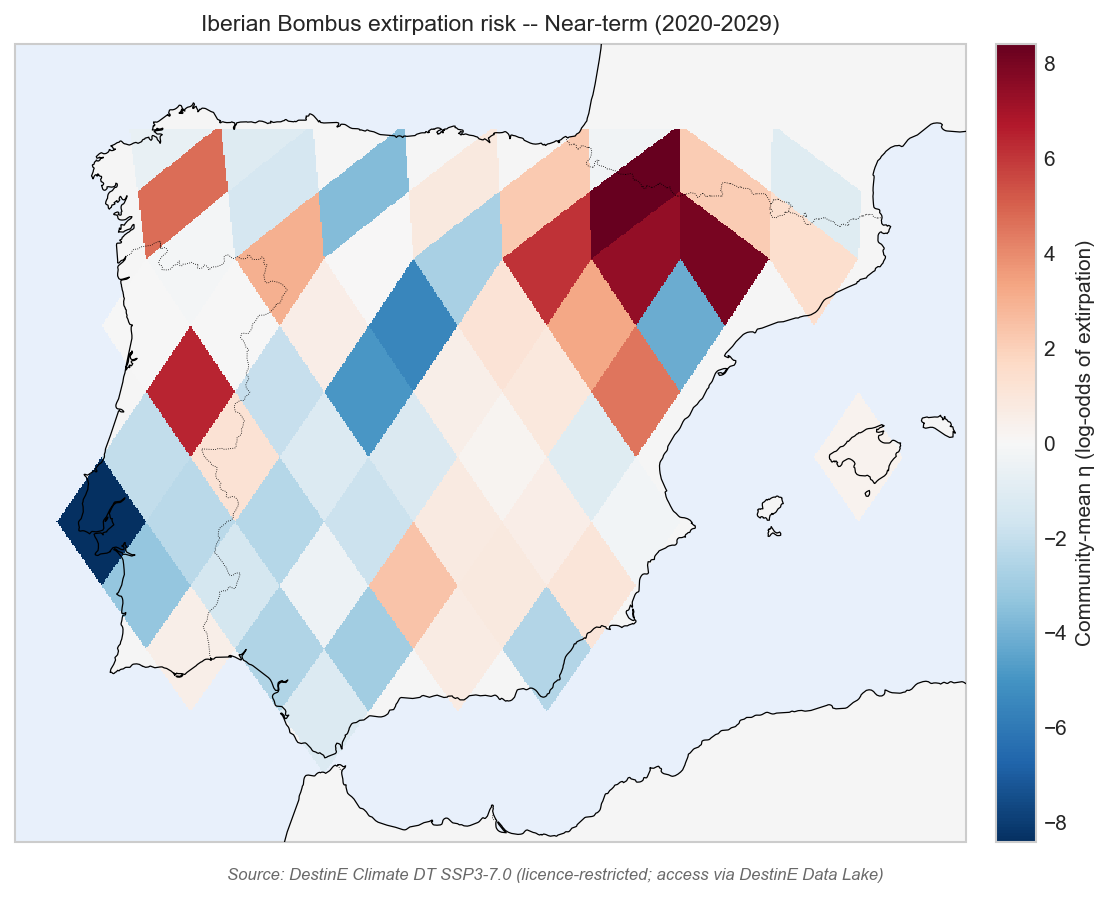
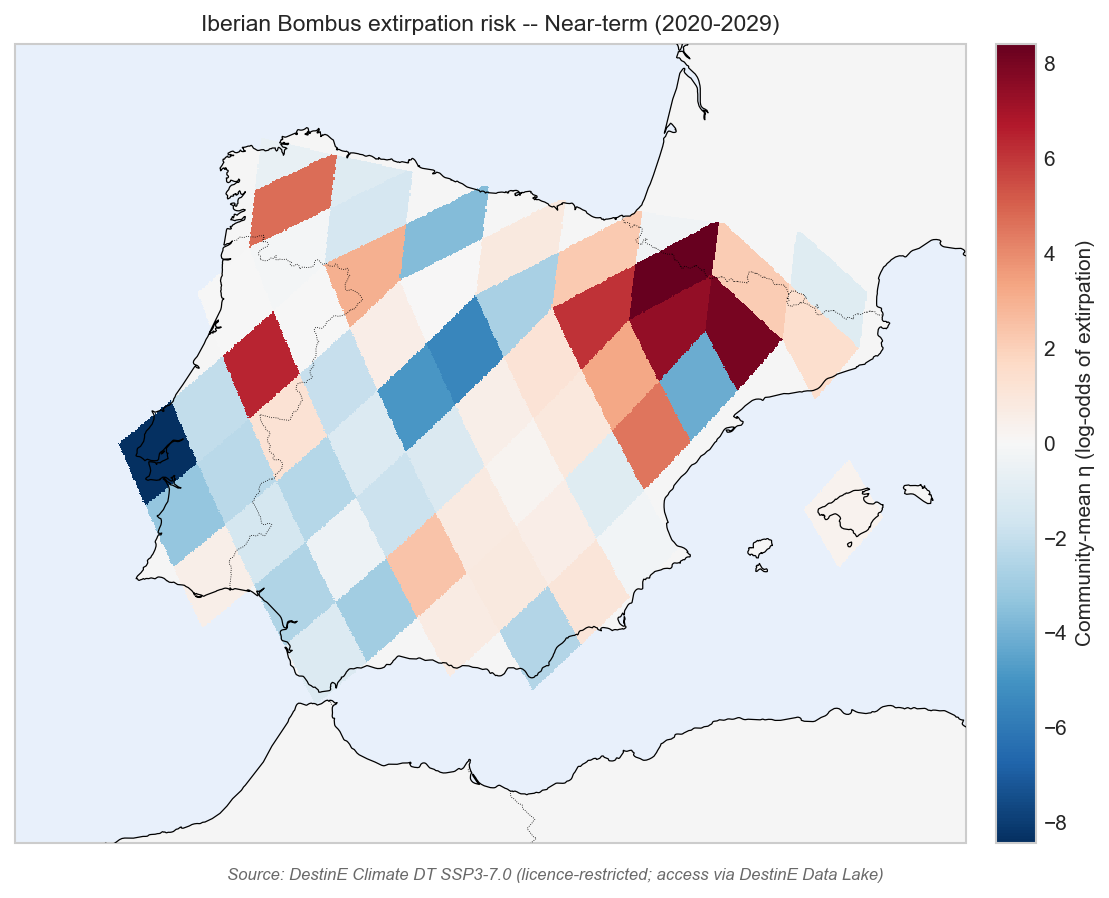
Tier 2 — switch maps to ETRS89/LAEA Europe (EPSG:3035) + flag terrestris/pascuorum negative-η as random-effect
Two changes coupled because both surfaced from inspecting the figures:

(1) Projection. PlateCarree was wrong for Iberia at HEALPix nside=64
    cell scale: not equal-area, distorts the cells visually relative to
    their true on-sphere areas, and not the canonical European
    biodiversity reporting CRS. Switch to ETRS89 / LAEA Europe
    (EPSG:3035) — equal-area, the EEA / Natura 2000 / EUNIS / INSPIRE
    standard for European biodiversity work. ccrs.epsg(3035) in cartopy.
    Faithful to HEALPix's equal-area pixelisation; aligns with how
    every EU biodiversity dataset is mapped.

(2) η decomposition reveals B. terrestris's and B. pascuorum's
    negative projected η is driven by the GLMM species random
    intercept (RE ≈ -2.6 and -0.97 respectively), NOT climate-induced
    benefit. Per-term breakdown for terrestris at 2030-2039:
        Intercept             -0.799
        sc_TEI_bs             +0.293   <- positive climate
        sc_TEI_delta          +0.043   <- positive climate
        sc_PEI_delta          +0.675   <- positive climate
        species_RE            -2.600   <- DOMINATES negative result
        TOTAL                 -2.312
    All climate-driven term contributions are POSITIVE for both species.
    The correct interpretation is "historically robust species, with
    SSP3-7.0 adding moderate climate forcing on top" — NOT "projected
    to benefit from SSP3-7.0". Add this caveat to 05_outcome.md
    Limitations.

Files:
[…]

diff --git a/scripts/decompose_eta_for_species.py b/scripts/decompose_eta_for_species.py
@@ -1,0 +1,196 @@
+"""Decompose the GLMM linear predictor η per species into the 10 fixed-effect
+term contributions, plus the species random effect.
+
+For each species' active cells under the projection horizon, computes:
+
+    eta = beta_0 (Intercept)
+        + beta_1 * sc_sampling
+        + beta_2 * sc_TEI_bs
+        + beta_3 * sc_TEI_delta
+        + beta_4 * sc_TEI_bs * sc_TEI_delta
+        + beta_5 * sc_PEI_bs
+        + beta_6 * sc_PEI_delta
+        + beta_7 * sc_PEI_bs * sc_PEI_delta
+        + beta_8 * sc_TEI_bs * sc_PEI_bs
+        + beta_9 * sc_TEI_delta * sc_PEI_delta
+        + species_random_intercept
+
+Reports the per-cell mean of each term (averaged over the species' cells)
+so we can see which term is driving the per-species η. Useful for
+explaining anomalies like terrestris's negative projected η.
+
+Usage:
+    python scripts/decompose_eta_for_species.py terrestris [--horizon 2030_2039]
+"""
+from __future__ import annotations
+
+import argparse
+import json
+from pathlib import Path
+
+import arviz as az
+import numpy as np
+import pandas as pd
+import xarray as xr
+
+ROOT = Path(__file__).resolve().parent.parent
+HPORT = ROOT / "healpix_port" / "outputs_iberia"
+RESULTS = ROOT / "results"
+
+PARAM_NAMES = [
+    "Intercept",
+    "sc_sampling",
+    "sc_TEI_bs",
+    "sc_TEI_delta",
+    "sc_TEI_bs:sc_TEI_delta",
+    "sc_PEI_bs",
+    "sc_PEI_delta",
+    "sc_PEI_bs:sc_PEI_delta",
+    "sc_TEI_bs:sc_PEI_bs",
+    "sc_TEI_delta:sc_PEI_delta",
+]
+
+
+def main():
+    ap = argparse.ArgumentParser(description=__doc__)
+    ap.add_argument("species", help="Lowercase Bombus epithet, e.g. 'terrestris'")
+    ap.add_argument("--horizon", default="2030_2039",
+                    choices=("2020_2029", "2030_2039"))
+    args = ap.parse_args()
+    sp = args.species
+    horizon = args.horizon
+
+    # Load future TEI/PEI for this horizon
+    fut = xr.open_dataset(HPORT / f"climate_tei_pei_future_{horizon}_healpix.nc")
+    species_arr = fut["species"].values.astype(str)
+    if sp not in species_arr:
+        raise SystemExit(f"Species '{sp}' not in {HPORT}/climate_tei_pei_future_{horizon}_healpix.nc")
+    si = list(species_arr).index(sp)
+
+    # Load standardisation constants from Tier-1 dataGLMM
+    parquet = pd.read_parquet(HPORT / "dataGLMM_extinction.parquet")
+    sampling_zarr = parquet["sampling"].values
+    sampling_mu, sampling_sd = sampling_zarr.mean(), sampling_zarr.std(ddof=1)
+    constants = {
+        col: (parquet[col].mean(), parquet[col].std(ddof=1))
+        for col in ("TEI_bs", "TEI_delta", "PEI_bs", "PEI_delta")
+    }
+
+    def z(x, col):
+        mu, sd = constants[col]
+        return (x - mu) / sd
+
+    # VB posterior means (use these as point estimates for term decomposition;
+    # for full posterior use the bambi NetCDF — kept simple here)
+    post = pd.read_csv(HPORT / "posterior_vb_summary.csv", index_col=0)
+    coef = {p: float(post.loc[p, "mean"]) for p in PARAM_NAMES}
+
+    # Species random effect from bambi posterior
+    idata = az.from_netcdf(RESULTS / "posterior_bambi_healpix.nc")
+    re_ds = idata.posterior.get("1|species", None)
+    if re_ds is None:
+        # bambi sometimes calls it differently
+        for k in idata.posterior.data_vars:
+            if "species" in k.lower():
+                re_ds = idata.posterior[k]
+                break
+    re_mean_per_species = re_ds.mean(dim=("chain", "draw")).values  # (n_species,)
+    re_species_coords = (
+        re_ds.coords.get("1|species_dim") or re_ds.coords.get("species_dim")
+        or list(idata.posterior.coords.values())[-1]
+    ).values.astype(str)
+    if sp in re_species_coords:
+        re_si = list(re_species_coords).index(sp)
+        re_value = float(re_mean_per_species[re_si])
+    else:
+        re_value = 0.0
+        print(f"  [warn] species '{sp}' not in random-effect coord; using RE = 0")
+
+    # Future predictors at this species' active cells
+    tei_bs = fut["tei_bs"].values[si, :]
+    tei_delta = fut["tei_delta"].values[si, :]
+    pei_bs = fut["pei_bs"].values[si, :]
+    pei_delta = fut["pei_delta"].values[si, :]
+    cells = fut["cell"].values
+
+    valid = (np.isfinite(tei_bs) & np.isfinite(tei_delta)
+             & np.isfinite(pei_bs) & np.isfinite(pei_delta))
+    if valid.sum() == 0:
+        raise SystemExit(f"No cells with all-finite predictors for {sp}")
+
+    # Standardise (sampling held at recent-period mean = 0 in z-space)
+    sc_TEI_bs = z(tei_bs[valid], "TEI_bs")
+    sc_TEI_delta = z(tei_delta[valid], "TEI_delta")
+    sc_PEI_bs = z(pei_bs[valid], "PEI_bs")
+    sc_PEI_delta = z(pei_delta[valid], "PEI_delta")
+    sc_sampling = np.zeros_like(sc_TEI_bs)
+
+    # Per-cell term contributions
+    contrib = {
+        "Intercept": np.full_like(sc_TEI_bs, coef["Intercept"]),
+        "sc_sampling": coef["sc_sampling"] * sc_sampling,
+        "sc_TEI_bs": coef["sc_TEI_bs"] * sc_TEI_bs,
+        "sc_TEI_delta": coef["sc_TEI_delta"] * sc_TEI_delta,
+        "sc_TEI_bs:sc_TEI_delta":
+            coef["sc_TEI_bs:sc_TEI_delta"] * sc_TEI_bs * sc_TEI_delta,
+        "sc_PEI_bs": coef["sc_PEI_bs"] * sc_PEI_bs,
+        "sc_PEI_delta": coef["sc_PEI_delta"] * sc_PEI_delta,
+        "sc_PEI_bs:sc_PEI_delta":
+            coef["sc_PEI_bs:sc_PEI_delta"] * sc_PEI_bs * sc_PEI_delta,
+        "sc_TEI_bs:sc_PEI_bs":
+            coef["sc_TEI_bs:sc_PEI_bs"] * sc_TEI_bs * sc_PEI_bs,
+        "sc_TEI_delta:sc_PEI_delta":
+            coef["sc_TEI_delta:sc_PEI_delta"] * sc_TEI_delta * sc_PEI_delta,
+        "species_RE": np.full_like(sc_TEI_bs, re_value),
+    }
+    eta = sum(contrib.values())
+
+    print(f"\n=== B. {sp} — {horizon} — η decomposition ===")
+    print(f"Species cells with finite predictors: {valid.sum()}")
+    print(f"Mean η across cells: {eta.mean():+.3f}\n")
+
+    # Mean term contribution across cells (this is what drives the species' mean η)
+    print(f"{'Term':<28}  {'β (VB mean)':>12}  {'mean cell value':>16}  {'mean contribution':>20}")
+    print("-" * 84)
+    rows = []
+    for term in list(contrib.keys()):
+        if term == "species_RE":
+            beta = float("nan")
+            mean_cell_value = float("nan")
+        elif term == "Intercept":
+            beta = coef["Intercept"]
+            mean_cell_value = 1.0
+        elif ":" in term:
+            beta = coef[term]
+            mean_cell_value = float("nan")  # not applicable to single value
+        else:
+            beta = coef[term]
+            # Re-derive the mean of the standardised predictor for that term
+            arr = {
+                "sc_sampling": sc_sampling,
+                "sc_TEI_bs": sc_TEI_bs,
+                "sc_TEI_delta": sc_TEI_delta,
+                "sc_PEI_bs": sc_PEI_bs,
+                "sc_PEI_delta": sc_PEI_delta,
+            }[term]
+            mean_cell_value = float(arr.mean())
+        mean_contrib = float(contrib[term].mean())
+        rows.append((term, beta, mean_cell_value, mean_contrib))
+        print(f"{term:<28}  {beta:>+12.4f}  "
+              f"{(f'{mean_cell_value:+.3f}' if np.isfinite(mean_cell_value) else 'n/a'):>16}  "
+              f"{mean_contrib:>+20.4f}")
+
+    print("-" * 84)
+    total = sum(r[3] for r in rows)
+    print(f"{'TOTAL η (sum of contributions)':<28}  {'':>12}  {'':>16}  {total:>+20.4f}")
+
+    # Highlight the dominant term(s)
+    rows_sorted = sorted(rows, key=lambda r: -abs(r[3]))
+    print(f"\nTop 3 contributing terms (by |contribution|):")
+    for term, beta, _, contrib_val in rows_sorted[:3]:
+        sign = "POSITIVE → ↑ η" if contrib_val > 0 else "NEGATIVE → ↓ η"
+        print(f"  {term:<28} contributes {contrib_val:+.3f}  ({sign})")
+
+
+if __name__ == "__main__":
+    main()

diff --git a/notebooks/08_projection_figures.py b/notebooks/08_projection_figures.py
@@ -185,7 +185,12 @@ def _plot_rank(ax, records, title, color, order_species=None,
 
 # %%
 def _draw_healpix_map(ax, raster_per_cell, title):
-    """Draw the Iberia raster via `healpix_plot.plot` (EOPF-DGGS canonical).
+    """Draw the Iberia raster via `healpix_plot.plot` (EOPF-DGGS canonical),
+    in **ETRS89 / LAEA Europe (EPSG:3035)** — the canonical European
+    biodiversity reporting CRS (EEA / Natura 2000 / EUNIS / INSPIRE) and
+    an equal-area projection that respects HEALPix's native equal-area
+    pixelisation. PlateCarree would distort cells visually relative to
+    their on-sphere areas — not faithful to the substrate.
 
     Diverging colormap centred on η = 0 (the moderate-risk threshold:
     log-odds 0 ↔ p = 0.5). Red cells = high projected extirpation
@@ -193,8 +198,11 @@ def _draw_healpix_map(ax, raster_per_cell, title):
     p = expit(η) because future predictors lie far outside training
     distribution and expit() saturates uninformatively.
     """
-    proj = ccrs.PlateCarree()
-    ax.set_extent([-10.5, 4.5, 35.0, 44.5], crs=proj)
+    # The caller passes an axis already configured with EPSG:3035
+    # (LAEA Europe). We declare the extent in PlateCarree (lon/lat)
+    # — cartopy does the projection internally.
+    pc = ccrs.PlateCarree()
+    ax.set_extent([-10.5, 4.5, 35.0, 44.5], crs=pc)
     ax.add_feature(cfeature.LAND, facecolor="#f5f5f5", zorder=0)
     ax.add_feature(cfeature.OCEAN, facecolor="#e8f0fb", zorder=0)
 
@@ -281,7 +289,10 @@ print(f"Saved {out}")
 # %%
 
 def _plot_map(horizon: str, raster: np.ndarray) -> Path:
-    proj = ccrs.PlateCarree()
+    # ETRS89 / LAEA Europe (EPSG:3035) — equal-area, canonical EU
+    # biodiversity reporting CRS. Faithful to HEALPix's equal-area
+    # pixelisation.
+    proj = ccrs.epsg(3035)
     fig = plt.figure(figsize=(7.5, 6))
     ax = plt.axes(projection=proj)
     pc = _draw_healpix_map(
@@ -346,7 +357,7 @@ _plot_rank(
 )
 
 if impactful in per_cell:
-    ax_map = fig.add_subplot(gs[0, 1], projection=ccrs.PlateCarree())
+    ax_map = fig.add_subplot(gs[0, 1], projection=ccrs.epsg(3035))
     pc = _draw_healpix_map(
         ax_map, per_cell[impactful],
         f"Risk map -- {HORIZON_TITLES[impactful]}",

diff --git a/nanopubs/drafts/05_outcome.md b/nanopubs/drafts/05_outcome.md
@@ -92,6 +92,7 @@ The Tier-2 projection therefore reports the GLMM linear predictor η (log-odds o
 > - **Daily Tmax/Tmin from 4-times-daily 2t snapshots** — 06_destine_clean approximates daily extremes from the 00/06/12/18 UTC samples rather than from true daily max/min (which DestinE Climate DT does not archive — see notebooks/05_destine_download.py § Why no native max/min).
 > - **`tp` 1-time-per-day approximation in the DestinE retrieve** — flagged in 06_destine_clean as TP_HOURLY_TO_DAILY_FACTOR; defensible at decadal mean, invalid for any sub-monthly statistic.
 > - **Small-N in the most-vulnerable taxa** — top-ranked species (norvegicus, mendax, mucidus, pyrenaeus) are observed in 1–7 Iberian cells in the 1901–1974 baseline period; high η reflects strong climate forcing at those few cells, not breadth of impact across the species' range. Treat the per-species η ranking jointly with `n_cells` and `n_cells_eta_gt_0` from `results/projection_headline.json`.
+> - **Negative-η species reflect random intercepts, not climate-driven benefit** — the GLMM's species random effect dominates the projected η for *B. terrestris* (RE ≈ −2.6) and *B. pascuorum* (RE ≈ −0.97), encoding lower-than-average historical extirpation susceptibility from the 1901–2014 GBIF training data. **All climate-driven term contributions are POSITIVE for both species** (terrestris: +0.92 net across climate terms; pascuorum: +0.42). The correct reading is "historically robust species, with SSP3-7.0 adding moderate climate forcing on top" — NOT "projected to benefit from SSP3-7.0". Verified by per-term η decomposition in `scripts/decompose_eta_for_species.py`.
 
 ## Publication note
 
